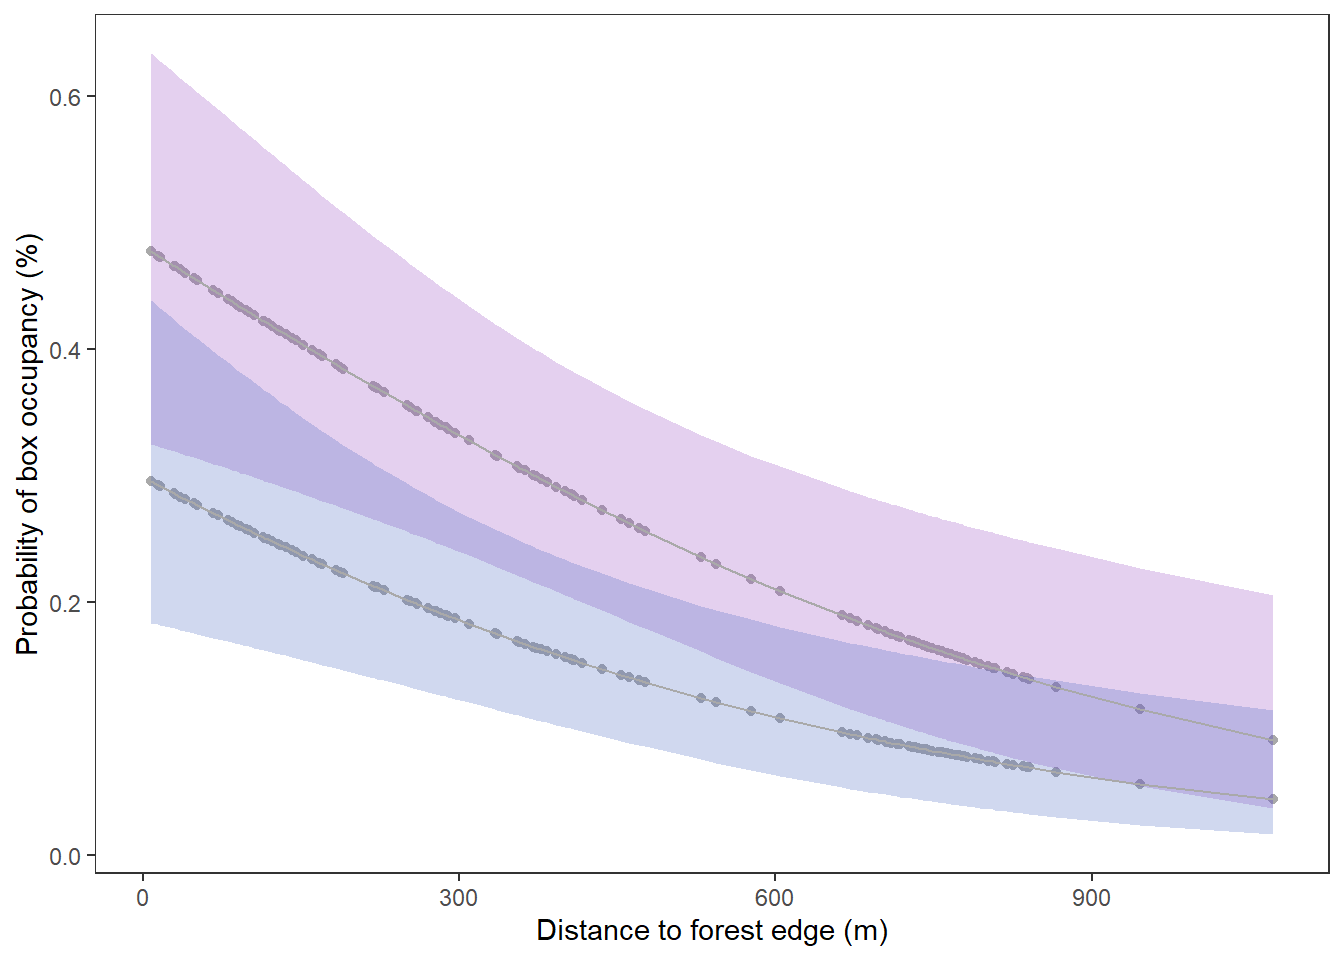
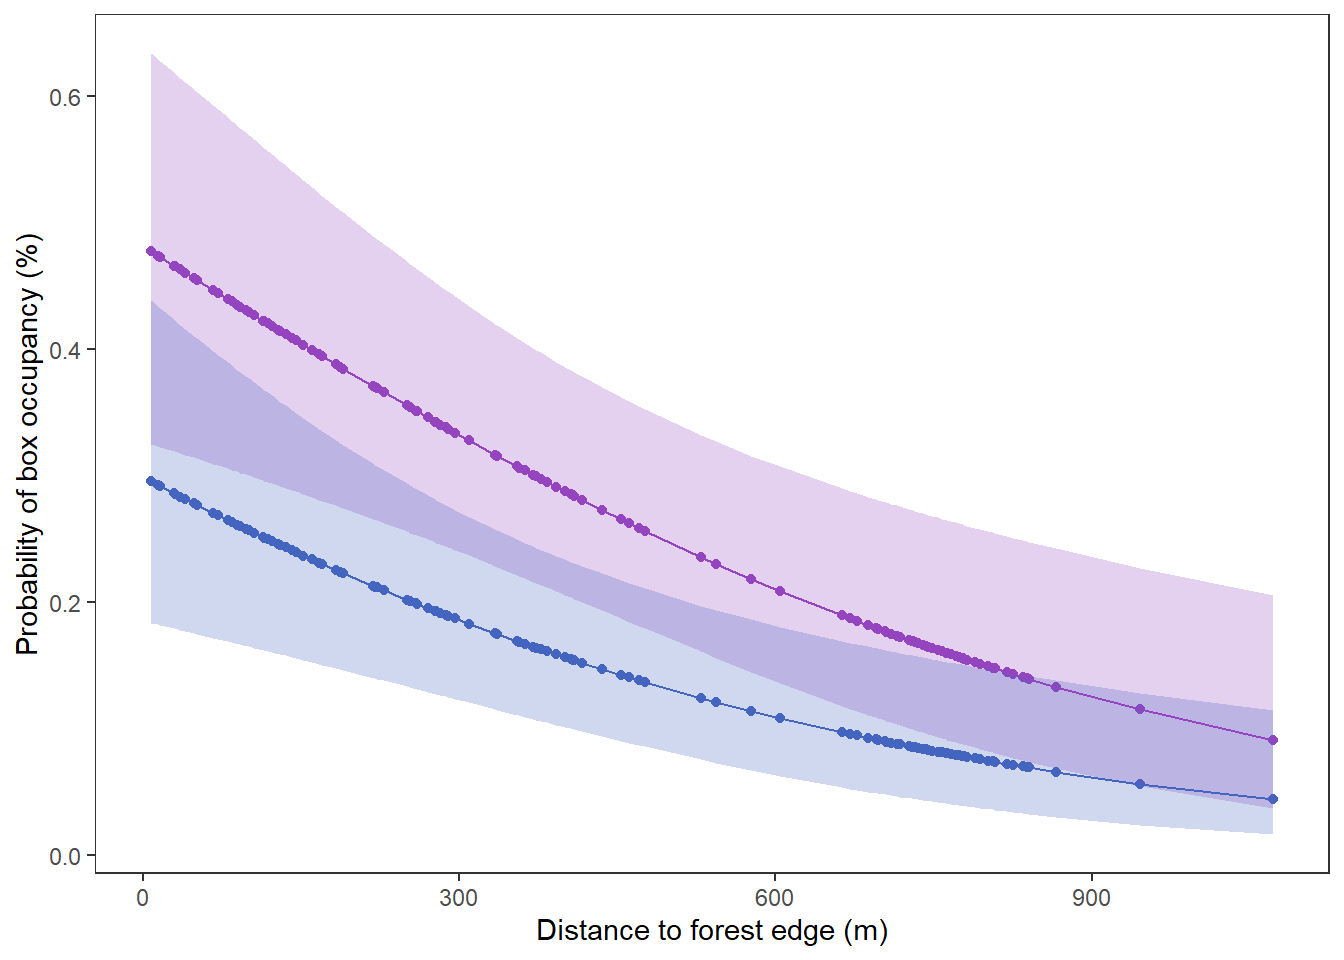
finish visualization, write caption for prediction visualization

diff --git a/code/Final-code.html b/code/Final-code.html
@@ -229,11 +229,11 @@ window.Quarto = {
 <pre><code># A tibble: 5 × 3
   year  month mean_monthly_sst
   &lt;fct&gt; &lt;ord&gt;            &lt;dbl&gt;
-1 2018  Feb               14.3
-2 2019  Apr               13.7
-3 2023  Jul               16.3
-4 2018  Jun               15.5
-5 2019  Feb               14.1</code></pre>
+1 2020  Aug               17.8
+2 2021  Jul               17.6
+3 2018  Jan               15.1
+4 2020  Dec               14.5
+5 2018  Oct               18.4</code></pre>
 </div>
 <div class="sourceCode cell-code" id="cb4"><pre class="sourceCode r code-with-copy"><code class="sourceCode r"><span id="cb4-1"><a href="#cb4-1" aria-hidden="true" tabindex="-1"></a><span class="fu">str</span>(sst_clean) <span class="co">#display sst_clean data structure</span></span></code><button title="Copy to Clipboard" class="code-copy-button"><i class="bi"></i></button></pre></div>
 <div class="cell-output cell-output-stdout">
@@ -363,16 +363,16 @@ window.Quarto = {
 <h2 class="anchored" data-anchor-id="f.-check-the-diagnostics">f.&nbsp;Check the diagnostics</h2>
 <div class="cell">
 <div class="sourceCode cell-code" id="cb8"><pre class="sourceCode r code-with-copy"><code class="sourceCode r"><span id="cb8-1"><a href="#cb8-1" aria-hidden="true" tabindex="-1"></a><span class="co"># Simulate residuals for each model</span></span>
-<span id="cb8-2"><a href="#cb8-2" aria-hidden="true" tabindex="-1"></a>res1 <span class="ot">&lt;-</span> <span class="fu">simulateResiduals</span>(mod1) <span class="co">#null</span></span>
-<span id="cb8-3"><a href="#cb8-3" aria-hidden="true" tabindex="-1"></a>res2 <span class="ot">&lt;-</span> <span class="fu">simulateResiduals</span>(mod2) <span class="co">#saturated </span></span>
-<span id="cb8-4"><a href="#cb8-4" aria-hidden="true" tabindex="-1"></a>res3 <span class="ot">&lt;-</span> <span class="fu">simulateResiduals</span>(mod3)</span>
-<span id="cb8-5"><a href="#cb8-5" aria-hidden="true" tabindex="-1"></a>res4 <span class="ot">&lt;-</span> <span class="fu">simulateResiduals</span>(mod4)</span>
+<span id="cb8-2"><a href="#cb8-2" aria-hidden="true" tabindex="-1"></a>residuals1 <span class="ot">&lt;-</span> <span class="fu">simulateResiduals</span>(mod1) <span class="co">#null</span></span>
+<span id="cb8-3"><a href="#cb8-3" aria-hidden="true" tabindex="-1"></a>residuals2 <span class="ot">&lt;-</span> <span class="fu">simulateResiduals</span>(mod2) <span class="co">#saturated </span></span>
+<span id="cb8-4"><a href="#cb8-4" aria-hidden="true" tabindex="-1"></a>residuals3 <span class="ot">&lt;-</span> <span class="fu">simulateResiduals</span>(mod3)</span>
+<span id="cb8-5"><a href="#cb8-5" aria-hidden="true" tabindex="-1"></a>residuals4 <span class="ot">&lt;-</span> <span class="fu">simulateResiduals</span>(mod4)</span>
 <span id="cb8-6"><a href="#cb8-6" aria-hidden="true" tabindex="-1"></a></span>
 <span id="cb8-7"><a href="#cb8-7" aria-hidden="true" tabindex="-1"></a><span class="co"># Set plotting layout</span></span>
 <span id="cb8-8"><a href="#cb8-8" aria-hidden="true" tabindex="-1"></a><span class="fu">par</span>(<span class="at">mfrow =</span> <span class="fu">c</span>(<span class="dv">2</span>, <span class="dv">2</span>))</span>
 <span id="cb8-9"><a href="#cb8-9" aria-hidden="true" tabindex="-1"></a></span>
 <span id="cb8-10"><a href="#cb8-10" aria-hidden="true" tabindex="-1"></a><span class="co"># Plot each separately</span></span>
-<span id="cb8-11"><a href="#cb8-11" aria-hidden="true" tabindex="-1"></a><span class="fu">plot</span>(res1, <span class="at">main =</span> <span class="st">"Null"</span>)</span></code><button title="Copy to Clipboard" class="code-copy-button"><i class="bi"></i></button></pre></div>
+<span id="cb8-11"><a href="#cb8-11" aria-hidden="true" tabindex="-1"></a><span class="fu">plot</span>(residuals1, <span class="at">main =</span> <span class="st">"Null"</span>)</span></code><button title="Copy to Clipboard" class="code-copy-button"><i class="bi"></i></button></pre></div>
 <div class="cell-output-display">
 <div>
 <figure class="figure">
@@ -380,7 +380,7 @@ window.Quarto = {
 </figure>
 </div>
 </div>
-<div class="sourceCode cell-code" id="cb9"><pre class="sourceCode r code-with-copy"><code class="sourceCode r"><span id="cb9-1"><a href="#cb9-1" aria-hidden="true" tabindex="-1"></a><span class="fu">plot</span>(res2, <span class="at">main =</span> <span class="st">"Saturated"</span>)</span></code><button title="Copy to Clipboard" class="code-copy-button"><i class="bi"></i></button></pre></div>
+<div class="sourceCode cell-code" id="cb9"><pre class="sourceCode r code-with-copy"><code class="sourceCode r"><span id="cb9-1"><a href="#cb9-1" aria-hidden="true" tabindex="-1"></a><span class="fu">plot</span>(residuals2, <span class="at">main =</span> <span class="st">"Saturated"</span>)</span></code><button title="Copy to Clipboard" class="code-copy-button"><i class="bi"></i></button></pre></div>
 <div class="cell-output-display">
 <div>
 <figure class="figure">
@@ -388,7 +388,7 @@ window.Quarto = {
 </figure>
 </div>
 </div>
-<div class="sourceCode cell-code" id="cb10"><pre class="sourceCode r code-with-copy"><code class="sourceCode r"><span id="cb10-1"><a href="#cb10-1" aria-hidden="true" tabindex="-1"></a><span class="fu">plot</span>(res3, <span class="at">main =</span> <span class="st">"Model 3"</span>)</span></code><button title="Copy to Clipboard" class="code-copy-button"><i class="bi"></i></button></pre></div>
+<div class="sourceCode cell-code" id="cb10"><pre class="sourceCode r code-with-copy"><code class="sourceCode r"><span id="cb10-1"><a href="#cb10-1" aria-hidden="true" tabindex="-1"></a><span class="fu">plot</span>(residuals3, <span class="at">main =</span> <span class="st">"Model 3"</span>)</span></code><button title="Copy to Clipboard" class="code-copy-button"><i class="bi"></i></button></pre></div>
 <div class="cell-output-display">
 <div>
 <figure class="figure">
@@ -396,7 +396,7 @@ window.Quarto = {
 </figure>
 </div>
 </div>
-<div class="sourceCode cell-code" id="cb11"><pre class="sourceCode r code-with-copy"><code class="sourceCode r"><span id="cb11-1"><a href="#cb11-1" aria-hidden="true" tabindex="-1"></a><span class="fu">plot</span>(res4, <span class="at">main =</span> <span class="st">"Model 4"</span>)</span></code><button title="Copy to Clipboard" class="code-copy-button"><i class="bi"></i></button></pre></div>
+<div class="sourceCode cell-code" id="cb11"><pre class="sourceCode r code-with-copy"><code class="sourceCode r"><span id="cb11-1"><a href="#cb11-1" aria-hidden="true" tabindex="-1"></a><span class="fu">plot</span>(residuals4, <span class="at">main =</span> <span class="st">"Model 4"</span>)</span></code><button title="Copy to Clipboard" class="code-copy-button"><i class="bi"></i></button></pre></div>
 <div class="cell-output-display">
 <div>
 <figure class="figure">
@@ -437,13 +437,13 @@ mod1  1 238.8318</code></pre>
 <span id="cb14-8"><a href="#cb14-8" aria-hidden="true" tabindex="-1"></a>            <span class="at">y =</span> predicted,</span>
 <span id="cb14-9"><a href="#cb14-9" aria-hidden="true" tabindex="-1"></a>            <span class="at">color =</span> group,</span>
 <span id="cb14-10"><a href="#cb14-10" aria-hidden="true" tabindex="-1"></a>            <span class="at">fill =</span> group)) <span class="sc">+</span> <span class="co">#probability occupied by a swift parrot</span></span>
-<span id="cb14-11"><a href="#cb14-11" aria-hidden="true" tabindex="-1"></a>  <span class="fu">geom_point</span>(<span class="at">color =</span> <span class="st">"darkgrey"</span>) <span class="sc">+</span></span>
+<span id="cb14-11"><a href="#cb14-11" aria-hidden="true" tabindex="-1"></a>  <span class="fu">geom_point</span>() <span class="sc">+</span></span>
 <span id="cb14-12"><a href="#cb14-12" aria-hidden="true" tabindex="-1"></a>  <span class="fu">geom_ribbon</span>(</span>
 <span id="cb14-13"><a href="#cb14-13" aria-hidden="true" tabindex="-1"></a>              <span class="fu">aes</span>(<span class="at">ymin =</span> conf.low,</span>
 <span id="cb14-14"><a href="#cb14-14" aria-hidden="true" tabindex="-1"></a>                  <span class="at">ymax =</span> conf.high),</span>
 <span id="cb14-15"><a href="#cb14-15" aria-hidden="true" tabindex="-1"></a>              <span class="at">alpha =</span> .<span class="dv">25</span>,</span>
 <span id="cb14-16"><a href="#cb14-16" aria-hidden="true" tabindex="-1"></a>              <span class="at">color =</span> <span class="cn">NA</span>) <span class="sc">+</span></span>
-<span id="cb14-17"><a href="#cb14-17" aria-hidden="true" tabindex="-1"></a>  <span class="fu">geom_line</span>(<span class="at">color =</span> <span class="st">"darkgrey"</span>) <span class="sc">+</span></span>
+<span id="cb14-17"><a href="#cb14-17" aria-hidden="true" tabindex="-1"></a>  <span class="fu">geom_line</span>() <span class="sc">+</span></span>
 <span id="cb14-18"><a href="#cb14-18" aria-hidden="true" tabindex="-1"></a>  <span class="fu">theme_bw</span>() <span class="sc">+</span></span>
 <span id="cb14-19"><a href="#cb14-19" aria-hidden="true" tabindex="-1"></a>  <span class="fu">theme</span>(</span>
 <span id="cb14-20"><a href="#cb14-20" aria-hidden="true" tabindex="-1"></a>        <span class="at">panel.grid.major =</span> <span class="fu">element_blank</span>(),   <span class="co"># remove major gridlines</span></span>
@@ -452,7 +452,9 @@ mod1  1 238.8318</code></pre>
 <span id="cb14-23"><a href="#cb14-23" aria-hidden="true" tabindex="-1"></a>  <span class="fu">labs</span>(<span class="at">x =</span> <span class="st">"Distance to forest edge (m)"</span>,</span>
 <span id="cb14-24"><a href="#cb14-24" aria-hidden="true" tabindex="-1"></a>       <span class="at">y =</span> <span class="st">"Probability of box occupancy (%)"</span>) <span class="sc">+</span></span>
 <span id="cb14-25"><a href="#cb14-25" aria-hidden="true" tabindex="-1"></a>  <span class="fu">scale_fill_manual</span>(<span class="at">values =</span> <span class="fu">c</span>(<span class="st">"2016"</span> <span class="ot">=</span> <span class="st">"#9544BF"</span>,</span>
-<span id="cb14-26"><a href="#cb14-26" aria-hidden="true" tabindex="-1"></a>                                <span class="st">"2019"</span> <span class="ot">=</span> <span class="st">"#4465BF"</span>))</span></code><button title="Copy to Clipboard" class="code-copy-button"><i class="bi"></i></button></pre></div>
+<span id="cb14-26"><a href="#cb14-26" aria-hidden="true" tabindex="-1"></a>                                <span class="st">"2019"</span> <span class="ot">=</span> <span class="st">"#4465BF"</span>)) <span class="sc">+</span></span>
+<span id="cb14-27"><a href="#cb14-27" aria-hidden="true" tabindex="-1"></a>  <span class="fu">scale_color_manual</span>(<span class="at">values =</span> <span class="fu">c</span>(<span class="st">"2016"</span> <span class="ot">=</span> <span class="st">"#9544BF"</span>,</span>
+<span id="cb14-28"><a href="#cb14-28" aria-hidden="true" tabindex="-1"></a>                                <span class="st">"2019"</span> <span class="ot">=</span> <span class="st">"#4465BF"</span>))</span></code><button title="Copy to Clipboard" class="code-copy-button"><i class="bi"></i></button></pre></div>
 <div class="cell-output-display">
 <div>
 <figure class="figure">
@@ -464,6 +466,7 @@ mod1  1 238.8318</code></pre>
 </section>
 <section id="i.-write-a-caption-for-your-figure" class="level2">
 <h2 class="anchored" data-anchor-id="i.-write-a-caption-for-your-figure">i. Write a caption for your figure</h2>
+<p><strong>Fig. 1 Swift Parrots have a lower probability of occupancy with greater distance to forest edge.</strong> Data from DRYAD “Do nest boxes breed the target species or its competitors? A case study of a critically endangered bird.” The points represent individual predictions using the saturated generalized linear model with lines connecting them. The ribbons represent the confidence interval of the predictions. The color represent data from each season with 2016 in purple and 2019 in blue.</p>
 </section>
 </section>
 

diff --git a/README.md b/README.md
@@ -15,7 +15,7 @@ This project is a final course assignment that contains 4 main problems: Researc
 The "code" folder contains the main code document titled Final-code.qmd. The "data" folder contains all data used in the project:
 
 1.  From SBC LTER’s data catalog: "Daily sea surface temperature in Santa Barbara channel between 1982 and 2023." This data was used in problem 2.
-2.  From Restoration Ecology journal "Do nest boxes breed the target species or its competitors? A case study of a critically endangered bird"
+2.  From DRYAD "Do nest boxes breed the target species or its competitors? A case study of a critically endangered bird"
 
 ^1^data citation: Kui, L. 2024. Daily sea surface temperature in Santa Barbara channel between 1982 and 2023 ver 3. Environmental Data Initiative. <https://doi.org/10.6073/pasta/e930954949b2635928b8be6824630f84>. Accessed 2025-06-07.
 
